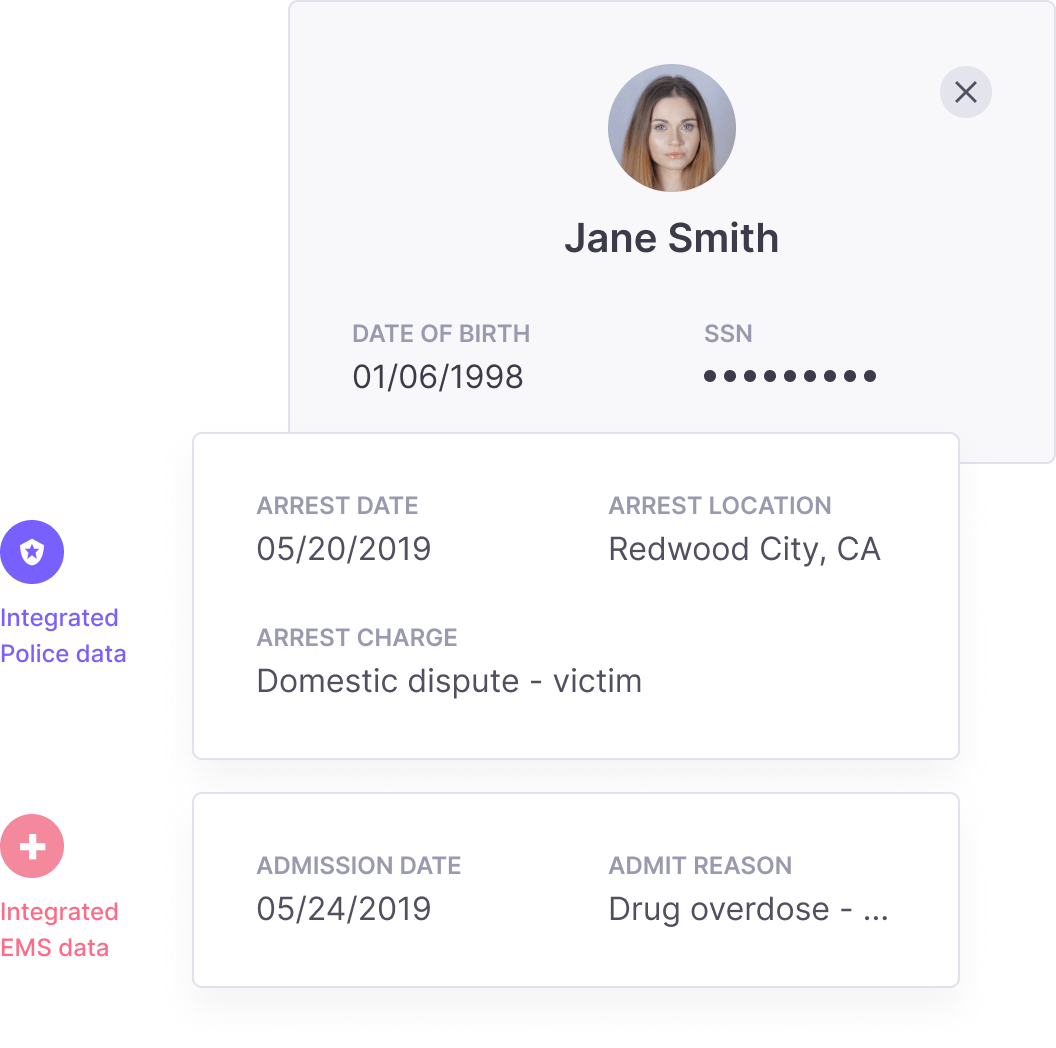
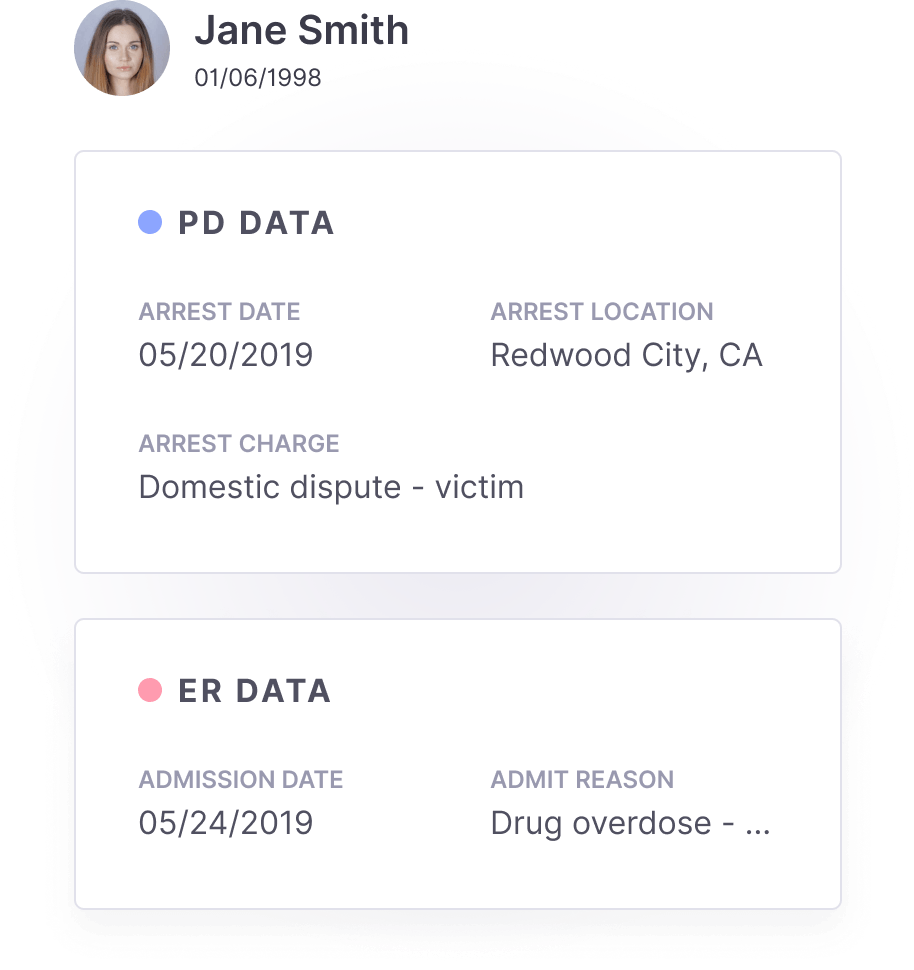
update graphic

diff --git a/src/containers/home/FeaturesConsts.js b/src/containers/home/FeaturesConsts.js
@@ -22,10 +22,10 @@ const SHARE_DATA :Object = {
     jurisdiction.`),
   GRAPHIC: ShareData,
   GRAPHIC_DIMENSIONS: {
-    normalHeight: '494px',
-    normalWidth: '528px',
-    smallHeight: '321.1px',
-    smallWidth: '343.2px',
+    normalHeight: '481px',
+    normalWidth: '457px',
+    smallHeight: '312.6px',
+    smallWidth: '297px',
   },
   ICONS: [
     ShareDataIcon1,
